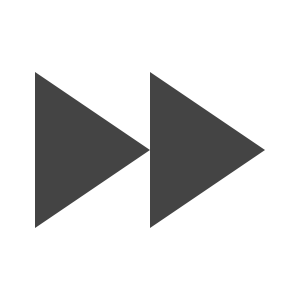
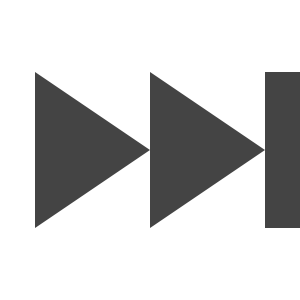
'Seek' Buttons - added Seek Backward and Seek Forward buttons to the toolbar - seek interval is currently 15 seconds - seeking forward past the duration of the track will loop back to the start of the track - seeking backward before the start of the track will loop forward to the end of the track - 

Changed region(s): [[0.87, 0.24, 1.0, 0.78]]

diff --git a/Vinyl/ViewController.swift b/Vinyl/ViewController.swift
@@ -22,6 +22,8 @@ class ViewController: NSViewController
     
     var songArray = [Song]()
     var audioPlayer = AVAudioPlayer()
+    let seekInterval = 15.0
+    
     var firstSongPlayed = false
     var currentlyPlayingIndex = 0
     
@@ -29,7 +31,7 @@ class ViewController: NSViewController
     override func viewDidLoad()
     {
         let defaultNotificationCenter = NSNotificationCenter.defaultCenter()
-        defaultNotificationCenter.addObserver(self, selector: "loadLibrary:", name:"LoadSongs", object: nil)
+        defaultNotificationCenter.addObserver(self, selector: "loadLibrary:", name:"LoadLibrary", object: nil)
     }
     
     
@@ -38,7 +40,7 @@ class ViewController: NSViewController
         let mainBundle = NSBundle.mainBundle()
         let path = mainBundle.pathForResource("songsList", ofType: "txt")
         let songsListFileContent = String(contentsOfFile: path!, encoding: NSUTF8StringEncoding, error: nil)
-     
+        
         println("LOADING...\n")
         
         // If there are previously added songs, populate the song array
@@ -158,7 +160,6 @@ class ViewController: NSViewController
             return dataURLWithFileName!
         }
         
-        
         var songsToAddCopy = songsToAdd.mutableCopy() as NSMutableArray
         var lastURL = songsToAddCopy.lastObject as NSURL
         
@@ -185,7 +186,6 @@ class ViewController: NSViewController
                     
                     let newSong = Song(newAsset: newAsset)
                     newSong.extractMetaData(newAsset)
-                    println(newSong.trackNumber)
                     println(newSong.fileURL)
                     
                     songArrayController.addObject(newSong)
@@ -222,14 +222,33 @@ class ViewController: NSViewController
     
     @IBAction func clickPreviousToolbarItem(sender: NSToolbarItem)
     {
-        currentlyPlayingIndex--
-        
-        // Jump from the start of the table to the end to loop playback
-        if currentlyPlayingIndex == -1 {
-            currentlyPlayingIndex = songArray.count - 1
+        if songArray.count > 0
+        {
+            currentlyPlayingIndex--
+            
+            // Jump from the start of the table to the end to loop playback
+            if currentlyPlayingIndex == -1 {
+                currentlyPlayingIndex = songArray.count - 1
+            }
+            
+            playSong(songArray[currentlyPlayingIndex].fileURL)
         }
-        
-        playSong(songArray[currentlyPlayingIndex].fileURL)
+    }
+    
+    
+    @IBAction func clickSeekBackward(sender: NSToolbarItem)
+    {
+        if songArray.count > 0
+        {
+            var seekTo = audioPlayer.currentTime - seekInterval
+            
+            if seekTo >= 0 {
+                audioPlayer.currentTime = seekTo
+            }
+            else {
+                audioPlayer.currentTime = audioPlayer.duration + seekTo     // seekTo is actually a negative number in this case, causing it to be subtracted from duration
+            }
+        }
     }
     
     
@@ -239,15 +258,18 @@ class ViewController: NSViewController
         
         if sender.image?.name() == "Play"
         {
-            if firstSongPlayed == false
+            if songArray.count > 0
             {
-                songArrayTableView.selectedRow
-                playSong(songArray[currentlyPlayingIndex].fileURL)
-                firstSongPlayed = true
-                defaultNotificationCenter.postNotificationName("EnableNextAndPrevious", object: nil)
+                if firstSongPlayed == false
+                {
+                    songArrayTableView.selectedRow
+                    playSong(songArray[currentlyPlayingIndex].fileURL)
+                    firstSongPlayed = true
+                    defaultNotificationCenter.postNotificationName("EnableNextAndPrevious", object: nil)
+                }
+                
+                defaultNotificationCenter.postNotificationName("DisplayPauseImage", object: nil)
             }
-            
-            defaultNotificationCenter.postNotificationName("DisplayPauseImage", object: nil)
         }
         else    // Image must be "Pause"
         {
@@ -263,16 +285,39 @@ class ViewController: NSViewController
     }
     
     
+    @IBAction func clickSeekForward(sender: NSToolbarItem)
+    {
+        if songArray.count > 0
+        {
+            var seekTo = audioPlayer.currentTime + seekInterval
+            
+            if seekTo < audioPlayer.duration {
+                audioPlayer.currentTime = seekTo
+            }
+            else if seekTo == audioPlayer.duration {
+                audioPlayer.currentTime = 0
+                audioPlayer.play()
+            }
+            else {
+                audioPlayer.currentTime = seekTo - audioPlayer.duration
+            }
+        }
+    }
+    
+    
     @IBAction func clickNextToolbarItem(sender: NSToolbarItem)
     {
-        currentlyPlayingIndex++
-
-        // Jump from the end of the table to the start to loop playback
-        if currentlyPlayingIndex == songArray.count {
-            currentlyPlayingIndex = 0
+        if songArray.count > 0
+        {
+            currentlyPlayingIndex++
+            
+            // Jump from the end of the table to the start to loop playback
+            if currentlyPlayingIndex == songArray.count {
+                currentlyPlayingIndex = 0
+            }
+            
+            playSong(songArray[currentlyPlayingIndex].fileURL)
         }
-        
-        playSong(songArray[currentlyPlayingIndex].fileURL)
     }
     
     

diff --git a/Vinyl/MyNSToolbar.swift b/Vinyl/MyNSToolbar.swift
@@ -17,30 +17,25 @@ import Cocoa
 class MyNSToolbar: NSToolbar
 {
     @IBOutlet weak var previousToolbarItem: NSToolbarItem!
+    @IBOutlet weak var seekBackwardToolbarItem: NSToolbarItem!
     @IBOutlet weak var playToolbarItem: NSToolbarItem!
+    @IBOutlet weak var seekForwardToolbarItem: NSToolbarItem!
     @IBOutlet weak var nextToolbarItem: NSToolbarItem!
     
     let defaultNotificationCenter = NSNotificationCenter.defaultCenter()
     let mainBundle = NSBundle.mainBundle()
     
-    var enabled = false
-    
     
     override func validateVisibleItems()
-    {
+    {        
         defaultNotificationCenter.addObserver(self, selector: "displayPauseImage:", name:"DisplayPauseImage", object: nil)
         defaultNotificationCenter.addObserver(self, selector: "displayPlayImage:", name:"DisplayPlayImage", object: nil)
-        defaultNotificationCenter.addObserver(self, selector: "enableNextAndPrevious:", name:"EnableNextAndPrevious", object: nil)
 
         previousToolbarItem.validate()
+        seekBackwardToolbarItem.validate()
         playToolbarItem.validate()
+        seekForwardToolbarItem.validate()
         nextToolbarItem.validate()
-        
-        if enabled == false {
-            nextToolbarItem.enabled = false
-            previousToolbarItem.enabled = false
-        }
-
     }
     
     
@@ -53,13 +48,5 @@ class MyNSToolbar: NSToolbar
     func displayPlayImage(notification: NSNotification)
     {
         playToolbarItem.image = NSImage(byReferencingFile: mainBundle.pathForResource("Play", ofType: ".png")!)
-    }
-    
-    
-    func enableNextAndPrevious(notification: NSNotification)
-    {
-        enabled = true
-        previousToolbarItem.enabled = true
-        nextToolbarItem.enabled = true
     }
 }

diff --git a/Vinyl/AppDelegate.swift b/Vinyl/AppDelegate.swift
@@ -17,12 +17,10 @@ import Cocoa
 @NSApplicationMain
 class AppDelegate: NSObject, NSApplicationDelegate
 {
-    let defaultNotificationCenter = NSNotificationCenter.defaultCenter()
-
     func applicationDidFinishLaunching(aNotification: NSNotification)
     {
         /* Insert code here to initialize your application */
-        defaultNotificationCenter.postNotificationName("LoadSongs", object: nil)
+        NSNotificationCenter.defaultCenter().postNotificationName("LoadLibrary", object: nil)
     }
 
     func applicationWillTerminate(aNotification: NSNotification)

diff --git a/Vinyl/Song.swift b/Vinyl/Song.swift
@@ -74,7 +74,6 @@ class Song: NSObject
     
     init(fileURLString: String, dateAddedString: String, timeString: String)
     {
-        println("Hello")
         self.fileURL = fileURLString
         self.dateAdded = dateAddedString
         self.time = timeString
@@ -86,7 +85,6 @@ class Song: NSObject
         func splitTrackNumbers(trackNumberString: String)
         {
             let trackNumbers = trackNumberString.componentsSeparatedByString("/")
-            println(trackNumbers)
             
             if trackNumbers.count >= 1
             {
